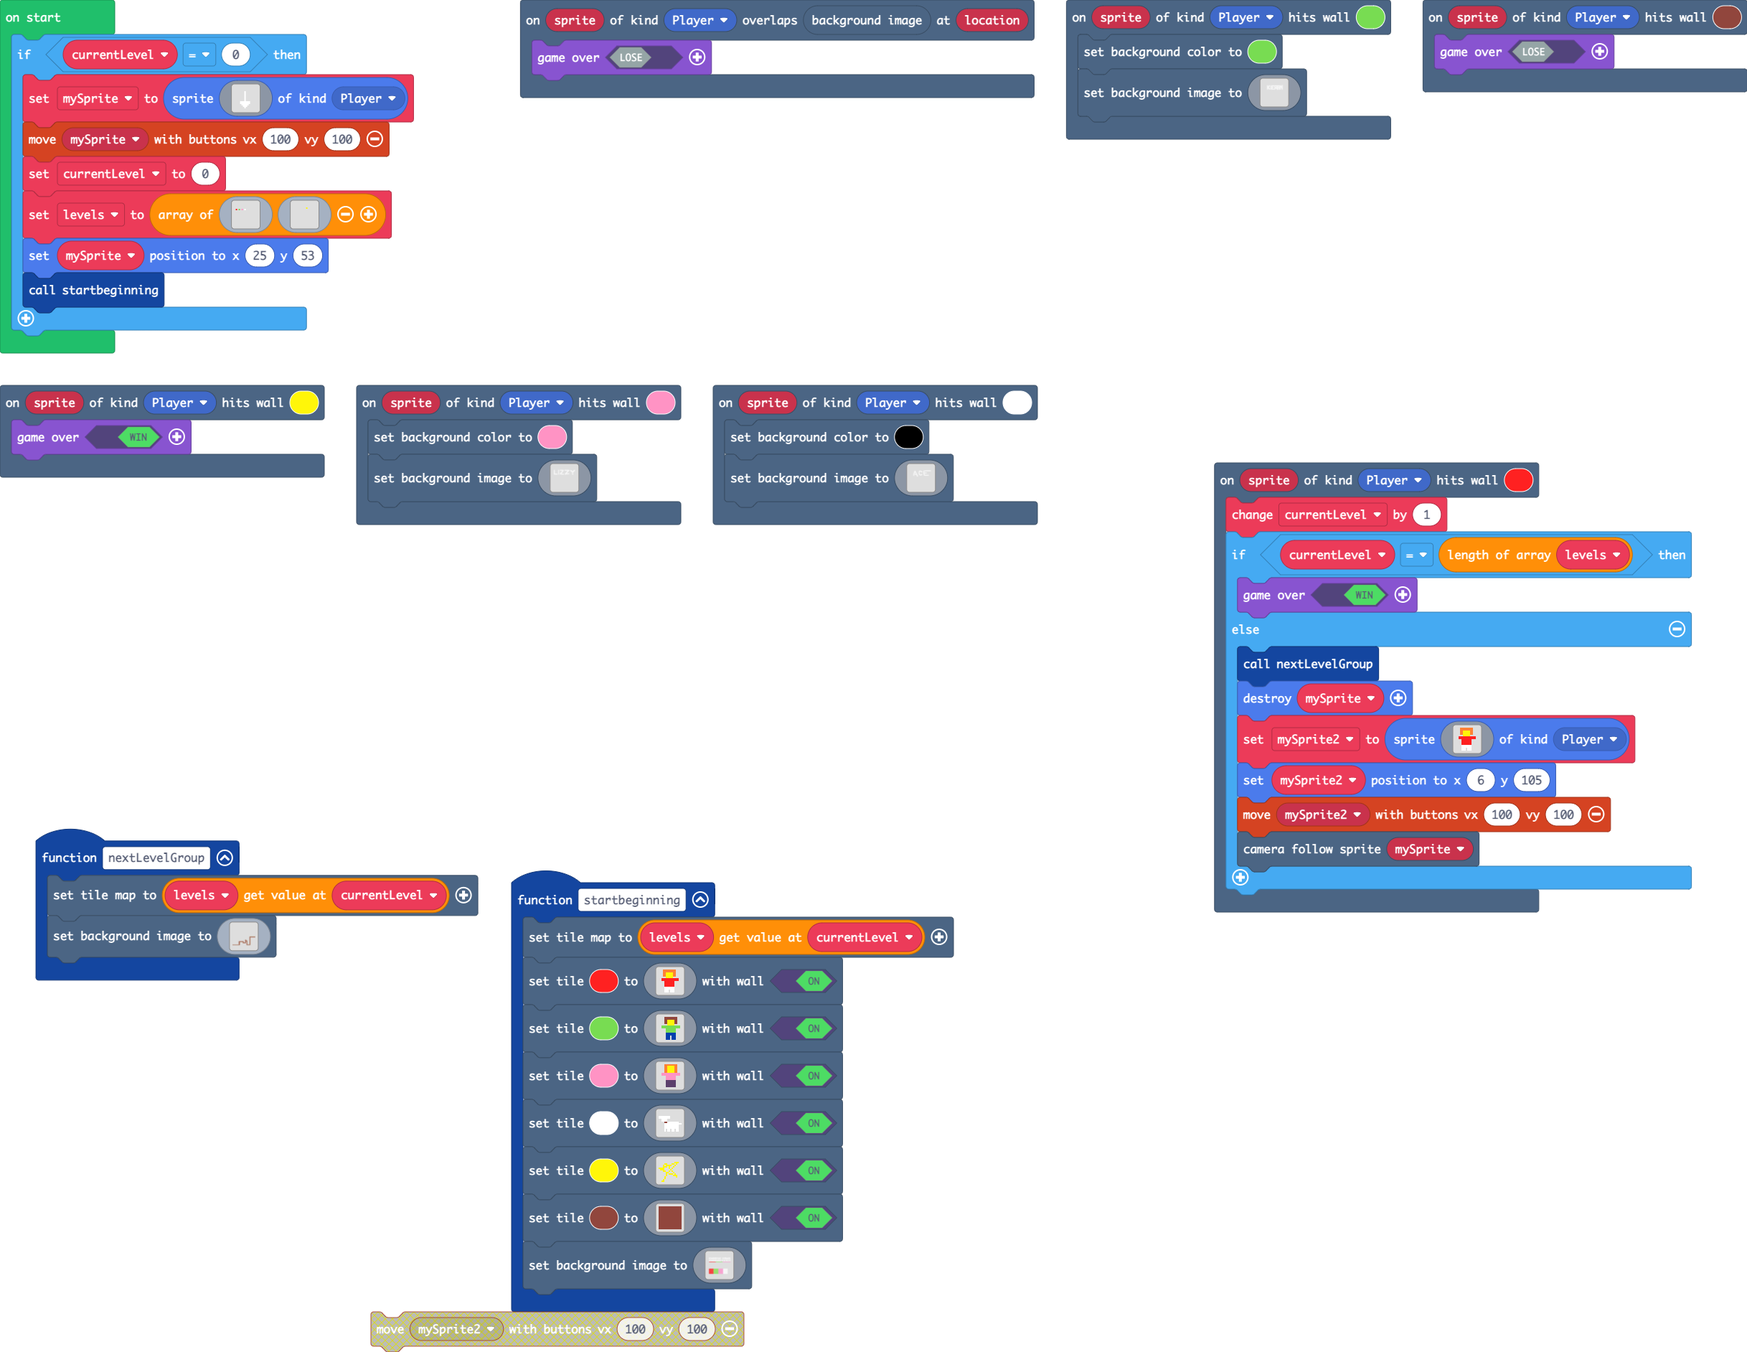
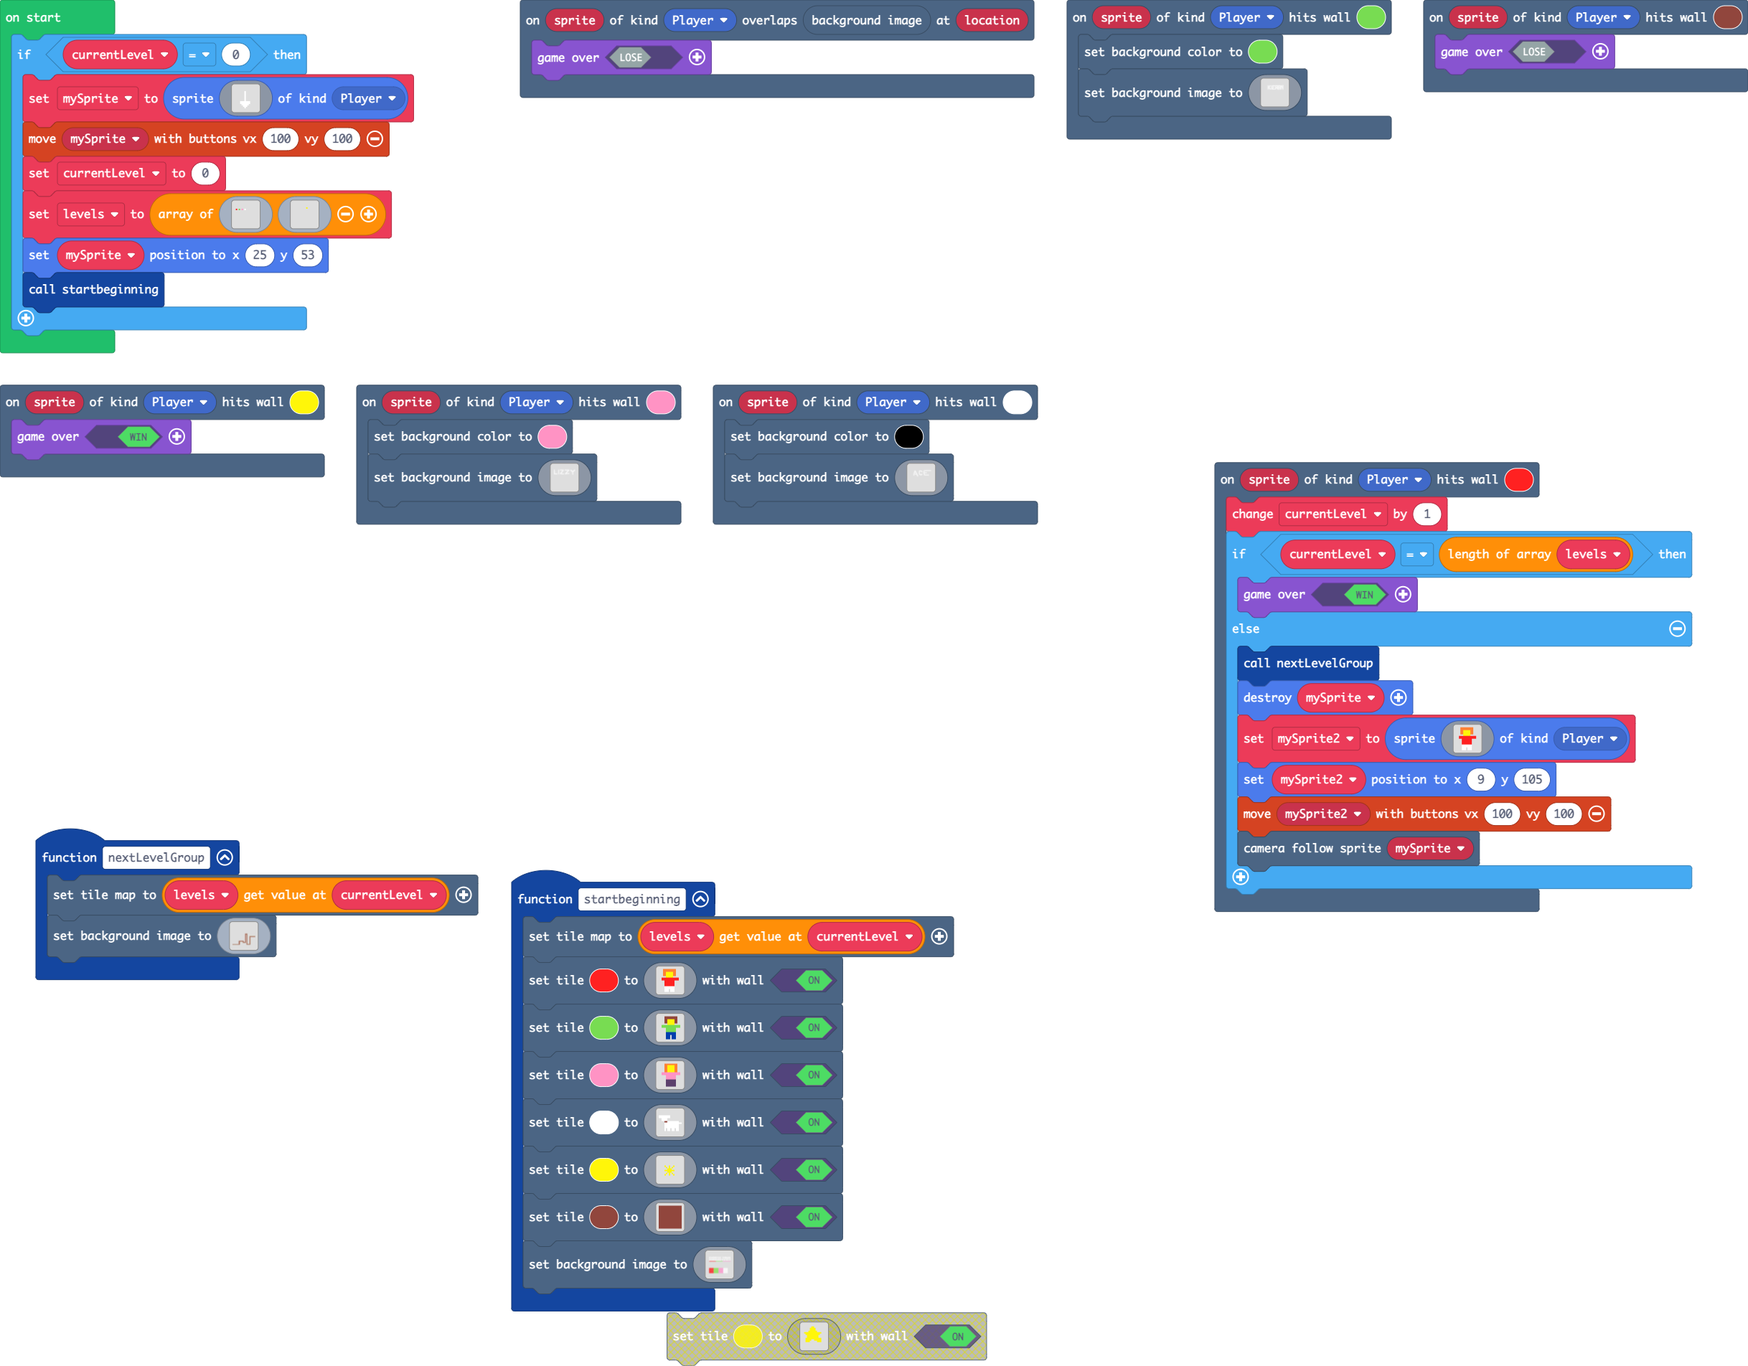
Update main.blocks, main.ts

diff --git a/main.ts b/main.ts
@@ -45,56 +45,56 @@ function nextLevelGroup () {
         ................................................................................................................................................................
         ................................................................................................................................................................
         ................................................................................................................................................................
-        ................................................................................................................................................................
-        ................................................................................................................................................................
-        ................................................................................................................................................................
-        ................................................................................................................................................................
-        ................................................................................................................................................................
-        ................................................................................................................................................................
-        ................................................................................................................................................................
-        ................................................................................................................................................................
-        ................................................................................................................................................................
-        ................................................................................................................................................................
-        ................................................................................................................................................................
-        ................................................................................................................................................................
-        ................................................................................................................................................................
-        ................................................................................................................................................................
-        ................................................................................................................................................................
-        ................................................................................................................................................................
-        ................................................................................................................................................................
-        ........................................................................................................................eeeeeeeeeeeeeeeeeeeeeeeeeeeeeeeeeeeeeeee
-        ........................................................................................................................eeeeeeeeeeeeeeeeeeeeeeeeeeeeeeeeeeeeeeee
-        ........................................................................................................................eeeeeeeeeeeeeeeeeeeeeeeeeeeeeeeeeeeeeeee
-        ........................................................................................................................eeeeeeeeeeeeeeeeeeeeeeeeeeeeeeeeeeeeeeee
-        ........................................................................................................................eeeeeeeeeeeeeeeeeeeeeeeeeeeeeeeeeeeeeeee
-        ........................................................................................................................eeeee...................................
-        ........................................................................................................................eeeee...................................
-        ........................................................................................................................eeeee...................................
-        ........................................................................................................................eeeee...................................
-        ........................................................................................................................eeeee...................................
-        ........................................................................................................................eeeee...................................
-        ........................................................................................................................eeeee...................................
-        ........................................................................................................................eeeee...................................
-        ........................................................................................................................eeeee...................................
-        ........................................................................................................................eeeee...................................
-        ........................................................................................................................eeeee...................................
-        ........................................................................................................................eeeee...................................
-        ........................................................................................................................eeeee...................................
-        ........................................................................................................................eeeee...................................
-        ........................................................................................................................eeeee...................................
-        ........................................................................................................................eeeee...................................
-        ........................................................................................................................eeeee...................................
-        ........................................................................................................................eeeee...................................
-        .........................................................................................eeeeeee........................eeeee...................................
-        .........................................................................................eeeeeee........................eeeee...................................
-        .........................................................................................eeeeeee........................eeeee...................................
-        .........................................................................................eeeeeee........................eeeee...................................
-        .........................................................................................eeeeeee........................eeeee...................................
-        .........................................................................................eeeeeeeeeeeeeee................eeeee...................................
-        .........................................................................................eeeeeeeeeeeeeee................eeeee...................................
-        .........................................................................................eeeeeeeeeeeeeee................eeeee...................................
-        .........................................................................................eeeeeeeeeeeeeee................eeeee...................................
-        .........................................................................................eeeeeeeeeeeeeee................eeeee...................................
+        .........................................................................................eeeeeeeeeeeeeee........................................................
+        .........................................................................................eeeeeeeeeeeeeee........................................................
+        .........................................................................................eeeeeeeeeeeeeee........................................................
+        .........................................................................................eeeeeeeeeeeeeee........................................................
+        .........................................................................................eeeeeeeeeeeeeee........................................................
+        .........................................................................................eeeeeeeeeeeeeee........................................................
+        .........................................................................................eeeee.....eeeee........................................................
+        .........................................................................................eeeee.....eeeee........................................................
+        .........................................................................................eeeee.....eeeee........................................................
+        .........................................................................................eeeee.....eeeee........................................................
+        .........................................................................................eeeee.....eeeee........................................................
+        .........................................................................................eeeee.....eeeee........................................................
+        .........................................................................................eeeee.....eeeee........................................................
+        .........................................................................................eeeee.....eeeee........................................................
+        .........................................................................................eeeee.....eeeee........................................................
+        .........................................................................................eeeee.....eeeee........................................................
+        .........................................................................................eeeee.....eeeee........................................................
+        .........................................................................................eeeee.....eeeee................eeeeeeeeeeeeeeeeeeeeeeeeeeeeeeeeeeeeeeee
+        .........................................................................................eeeee.....eeeee................eeeeeeeeeeeeeeeeeeeeeeeeeeeeeeeeeeeeeeee
+        .........................................................................................eeeee.....eeeee................eeeeeeeeeeeeeeeeeeeeeeeeeeeeeeeeeeeeeeee
+        .........................................................................................eeeee.....eeeee................eeeeeeeeeeeeeeeeeeeeeeeeeeeeeeeeeeeeeeee
+        .........................................................................................eeeee.....eeeee................eeeeeeeeeeeeeeeeeeeeeeeeeeeeeeeeeeeeeeee
+        .........................................................................................eeeee.....eeeee................eeeee...................................
+        .........................................................................................eeeee.....eeeee................eeeee...................................
+        .........................................................................................eeeee.....eeeee................eeeee...................................
+        .........................................................................................eeeee.....eeeee................eeeee...................................
+        .........................................................................................eeeee.....eeeee................eeeee...................................
+        .........................................................................................eeeee.....eeeee................eeeee...................................
+        .........................................................................................eeeee.....eeeee................eeeee...................................
+        .........................................................................................eeeee.....eeeee................eeeee...................................
+        .........................................................................................eeeee.....eeeee................eeeee...................................
+        .........................................................................................eeeee.....eeeee................eeeee...................................
+        .........................................................................................eeeee.....eeeee................eeeee...................................
+        .........................................................................................eeeee.....eeeee................eeeee...................................
+        .........................................................................................eeeee.....eeeee................eeeee...................................
+        .........................................................................................eeeee.....eeeee................eeeee...................................
+        .........................................................................................eeeee.....eeeee................eeeee...................................
+        .........................................................................................eeeee.....eeeee................eeeee...................................
+        .........................................................................................eeeee.....eeeee................eeeee...................................
+        .........................................................................................eeeee.....eeeee................eeeee...................................
+        .........................................................................................eeeee.....eeeee................eeeee...................................
+        .........................................................................................eeeee.....eeeee................eeeee...................................
+        .........................................................................................eeeee.....eeeee................eeeee...................................
+        .........................................................................................eeeee.....eeeee................eeeee...................................
+        .........................................................................................eeeee.....eeeee................eeeee...................................
+        .........................................................................................eeeee.....eeeee................eeeee...................................
+        .........................................................................................eeeee.....eeeee................eeeee...................................
+        .........................................................................................eeeee.....eeeee................eeeee...................................
+        .........................................................................................eeeee.....eeeee................eeeee...................................
+        .........................................................................................eeeee.....eeeee................eeeee...................................
         .............................................eeeeeeeeeeeeeeeeeeeeeeeeeeeeeeeee...........eeeee.....eeeee................eeeee...................................
         .............................................eeeeeeeeeeeeeeeeeeeeeeeeeeeeeeeee...........eeeee.....eeeee................eeeee...................................
         .............................................eeeeeeeeeeeeeeeeeeeeeeeeeeeeeeeee...........eeeee.....eeeee................eeeee...................................
@@ -328,20 +328,20 @@ function startbeginning () {
     scene.setTile(5, img`
         . . . . . . . . . . . . . . . . 
         . . . . . . . . . . . . . . . . 
-        . . . . . . . . . . . 5 5 5 . . 
-        . . . . 5 5 . . . 5 5 . 5 . . . 
-        . . . 5 . 5 5 5 5 . . 5 . . . . 
-        . . . 5 5 5 . 5 . . 5 . . . . . 
-        5 5 5 5 . . . 5 . 5 . . . . . . 
-        . 5 5 5 . . . . 5 . . . . . . . 
-        . . . 5 5 . . 5 . 5 . . . . . . 
-        . . . . . 5 5 . . . 5 . . . . . 
-        . . . . . 5 . 5 5 5 . 5 . . . . 
-        . . . . . 5 . . . . 5 5 5 . . . 
-        . . . . 5 . . . . . . . 5 . . . 
-        . . . . 5 . . . . . . . . . . . 
-        . . . 5 . . . . . . . . . . . . 
-        . . 5 5 . . . . . . . . . . . . 
+        . . . . . . . . . . . . . . . . 
+        . . . . . . . . . . . . . . . . 
+        . . . . . . . . . . . . . . . . 
+        . . . . 5 . . 5 . . 5 . . . . . 
+        . . . . . 5 . 5 . 5 . . . . . . 
+        . . . . . . 5 5 5 . . . . . . . 
+        . . . . 5 5 5 5 5 5 5 . . . . . 
+        . . . . . . 5 5 5 . . . . . . . 
+        . . . . . 5 . 5 . 5 . . . . . . 
+        . . . . 5 . . 5 . . 5 . . . . . 
+        . . . . . . . . . . . . . . . . 
+        . . . . . . . . . . . . . . . . 
+        . . . . . . . . . . . . . . . . 
+        . . . . . . . . . . . . . . . . 
         `, true)
     scene.setTile(14, img`
         e e e e e e e e e e e e e e e e 
@@ -762,7 +762,7 @@ scene.onHitTile(SpriteKind.Player, 2, function (sprite) {
             . . . . 1 1 1 . 1 1 1 . . . . . 
             . . . . 1 1 1 . 1 1 1 . . . . . 
             `, SpriteKind.Player)
-        mySprite2.setPosition(6, 105)
+        mySprite2.setPosition(9, 105)
         controller.moveSprite(mySprite2, 100, 100)
         scene.cameraFollowSprite(mySprite)
     }
